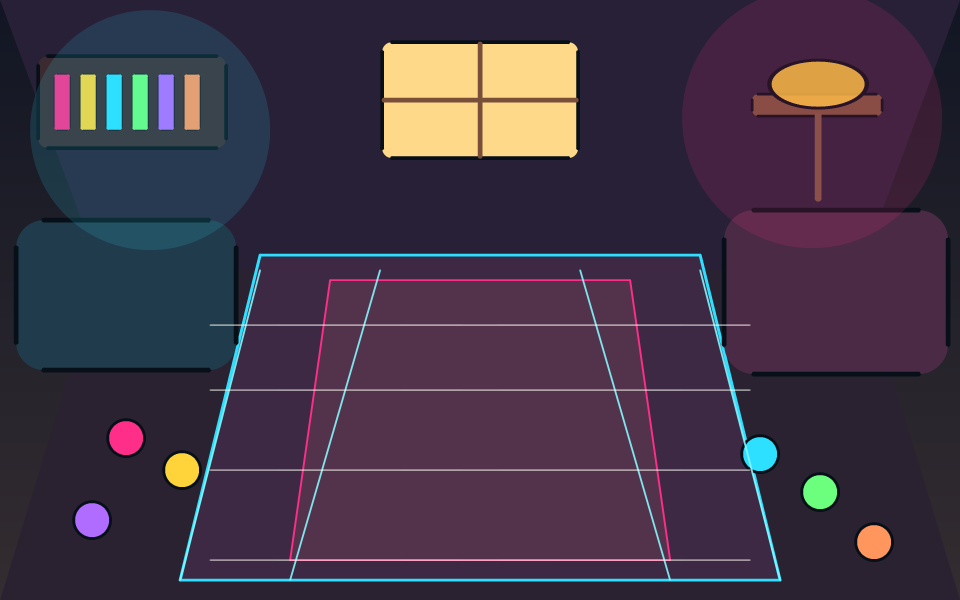
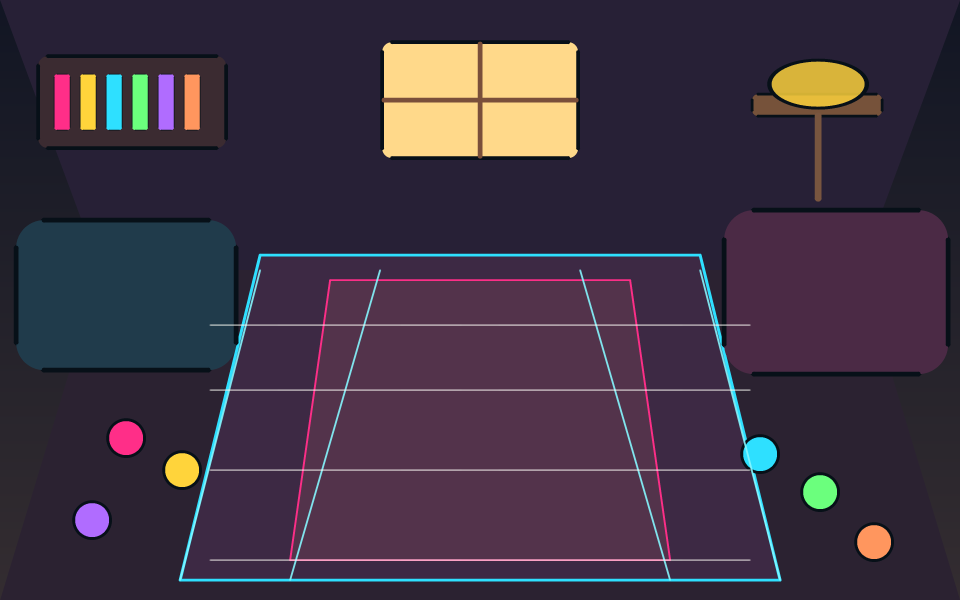
Remove cat game circular overlays

Changed region(s): [[0.6875, 0.0, 1.0, 0.42], [0.0312, 0.0, 0.2812, 0.42]]

diff --git a/assets/js/dont-fck-with-cats.js b/assets/js/dont-fck-with-cats.js
@@ -1499,18 +1499,6 @@
     }
     ctx.restore();
 
-    ctx.save();
-    ctx.globalAlpha = 0.16;
-    ctx.fillStyle = palette.glowA;
-    ctx.beginPath();
-    ctx.arc(120, 80, 180, 0, Math.PI * 2);
-    ctx.fill();
-    ctx.fillStyle = palette.glowB;
-    ctx.beginPath();
-    ctx.arc(870, 42, 150, 0, Math.PI * 2);
-    ctx.fill();
-    ctx.restore();
-
     fitText(level.name.toUpperCase(), W - 28, 34, 360, 18, "rgba(251,250,244,0.72)", "right");
   }
 
@@ -1995,6 +1983,14 @@
       ctx.fill();
       ctx.restore();
     }
+    ctx.save();
+    ctx.globalAlpha = 0.16;
+    ctx.fillStyle = C.black;
+    ctx.beginPath();
+    ctx.ellipse(state.x, PLAYER_Y + 22, clamp(62 + state.cats * 0.44, 68, 126), 22, 0, 0, Math.PI * 2);
+    ctx.fill();
+    ctx.restore();
+
     for (let i = visible - 1; i >= 0; i--) {
       const angle = i * 2.399963 + state.time * 0.45;
       const radius = 12 + Math.sqrt(i + 1) * 11.5;
@@ -2012,14 +2008,6 @@
       fitText(`+${Math.round(state.cats - visible)}`, state.x + 87, PLAYER_Y + 53, 70, 22, C.yellow, "center");
     }
 
-    ctx.save();
-    ctx.strokeStyle = C.cyan;
-    ctx.lineWidth = 5;
-    ctx.globalAlpha = 0.5;
-    ctx.beginPath();
-    ctx.arc(state.x, PLAYER_Y, clamp(48 + state.cats * 0.42, 54, 118), 0, Math.PI * 2);
-    ctx.stroke();
-    ctx.restore();
   }
 
   function drawTinyCat(x, y, scale, fur, angle, artIndex = 0) {
